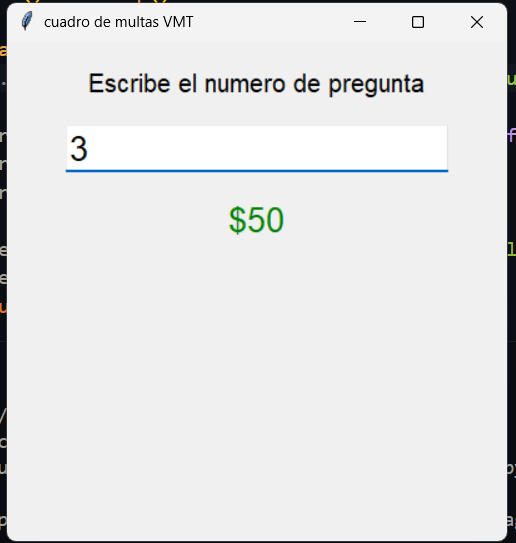
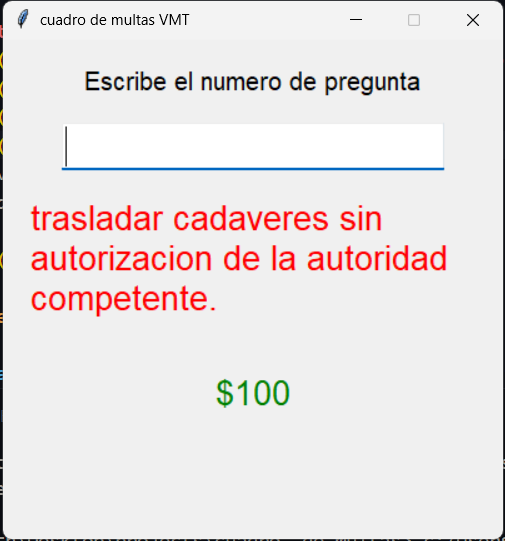
feat: se agrego otro label para mostra la pregunta. 	docs: se actualizo la imagen de el README.md.

diff --git a/main.py b/main.py
@@ -4,33 +4,45 @@ import tkinter
 
 
 class Window(tkinter.Tk):
+
     def __init__(self):
         super().__init__(baseName=None, className="Cuadro de multas VMT")
         super().geometry("400x400")
-        self.var = tkinter.StringVar()
-        self.label = self.create_widget()
         super().wm_attributes("-topmost", True)
+        super().resizable(False, False)
+        self.var = tkinter.StringVar()
+        self.question, self.answer = self.create_widget()
+
         super().mainloop()
 
     def create_widget(self):
+
         ttk.Label(self, text="Escribe el numero de pregunta", padding=20, font=("Arial", 15)).pack()
         
         entry = ttk.Entry(self, textvariable=self.var, font=("Arial", 20))
         entry.bind("<Return>", self.on_return)
         entry.pack()
 
-        label = ttk.Label(self, padding=20, font=("Arial", 20), foreground="green")
-        label.pack_forget()
-        return label
+        question = ttk.Label(self, padding=20, font=("Arial", 20), foreground="red", wraplength=350)
+        question.pack_forget()
+        
+        answer = ttk.Label(self, padding=20, font=("Arial", 20), foreground="green")
+        answer.pack_forget()
+
+        return question, answer
 
     def on_return(self, event):
-        self.set_text_label(int(self.var.get()))
+        self.set_widgets(int(self.var.get()))
         self.var.set("")
         
 
-    def set_text_label(self, index):
-        self.label.config(text=bitacora.diccionario[index][1])
-        self.label.pack()
+    def set_widgets(self, index):
+        self.question.config(text=bitacora.diccionario[index][0])
+        self.question.pack(fill=tkinter.X)
+
+        self.answer.config(text=bitacora.diccionario[index][1])
+        self.answer.pack()
+
 
 
 if __name__ in "__main__":
